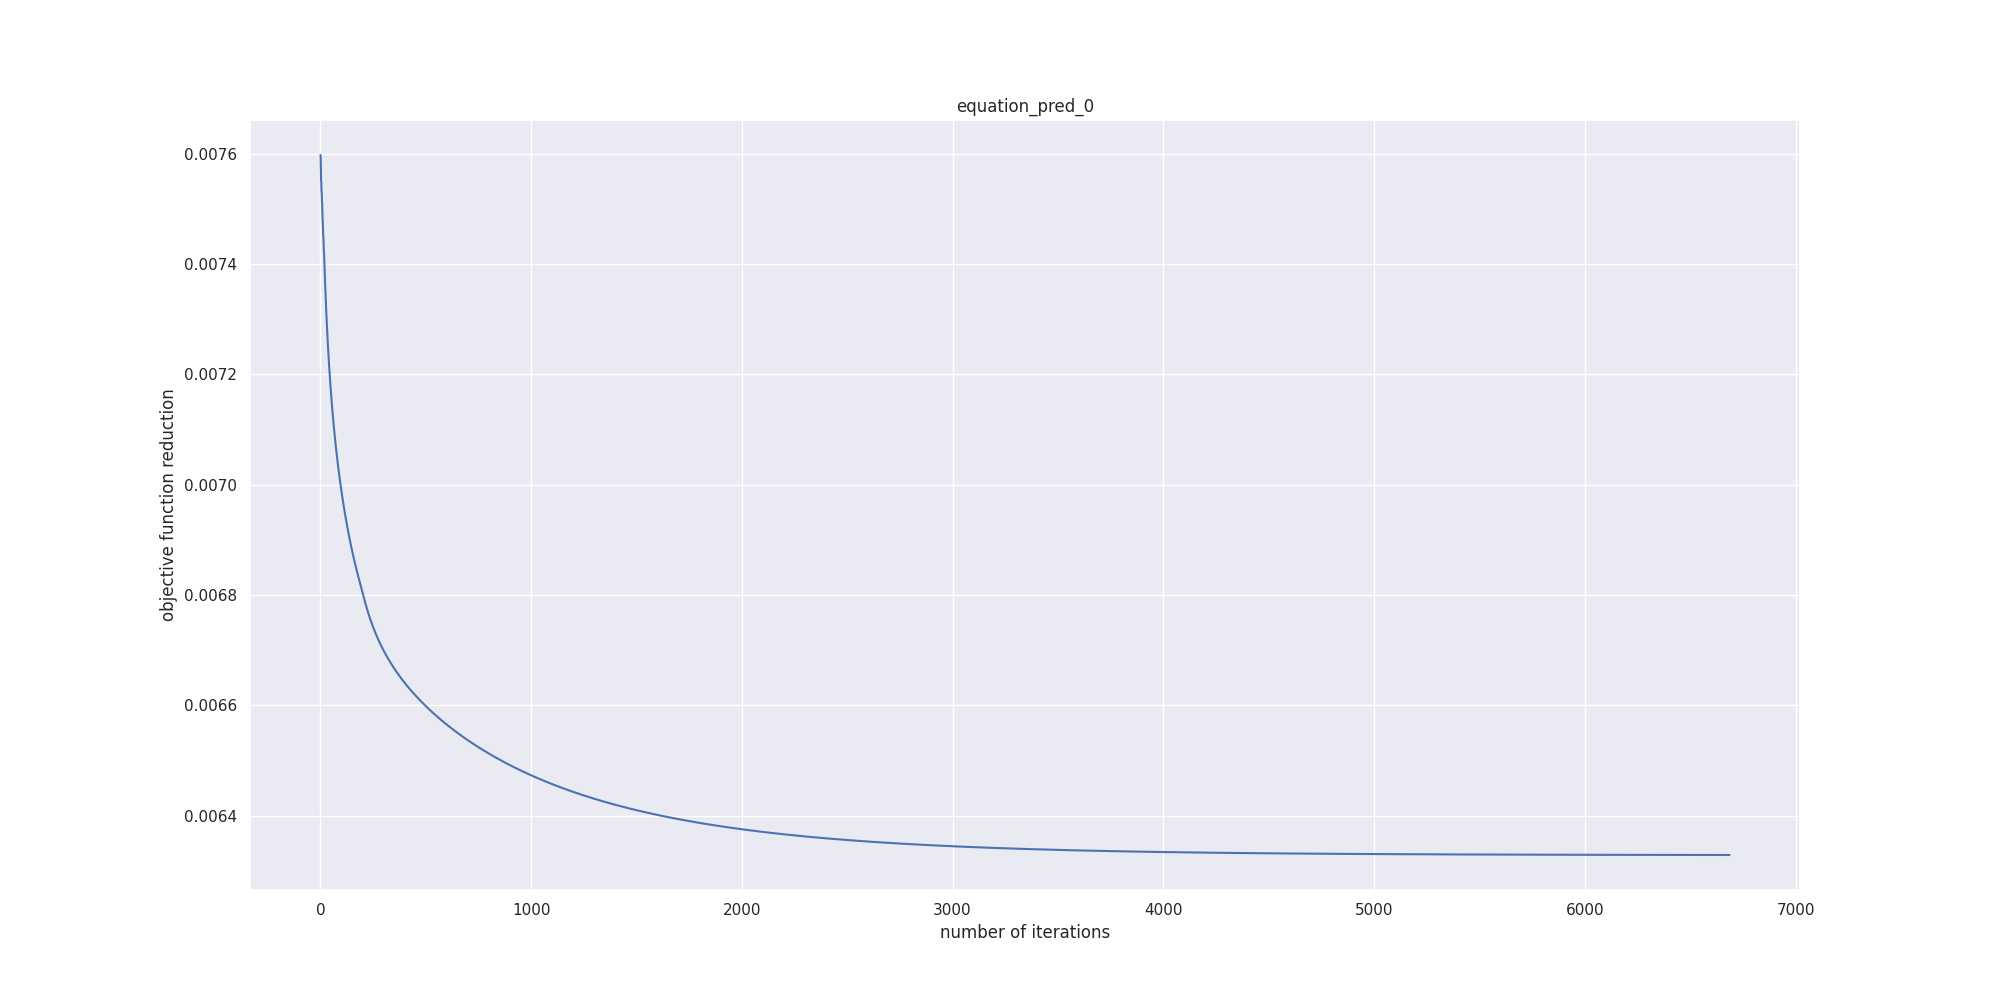
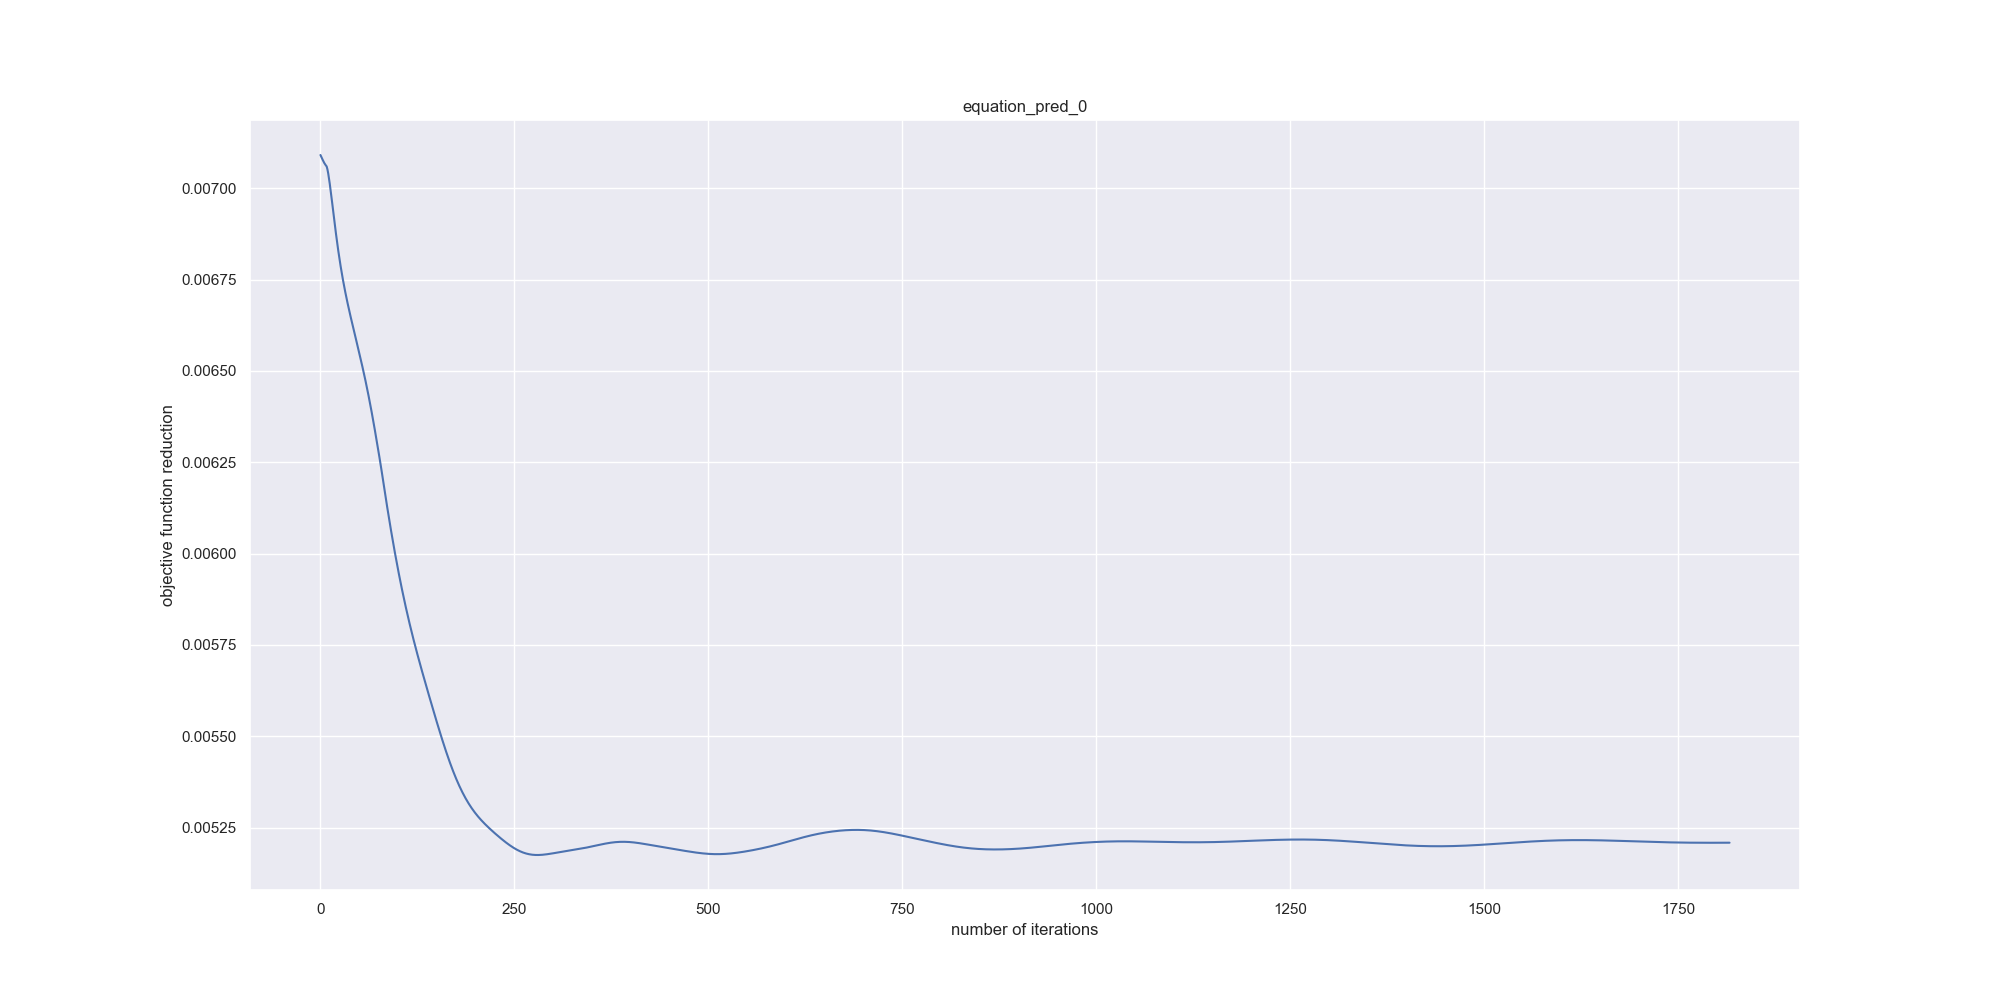
added FISTA algorithm

diff --git a/PGM.py b/PGM.py
@@ -1,5 +1,6 @@
 import numpy as np
 import pandas as pd
+import time
 
 class PGM_solver:
     
@@ -11,12 +12,13 @@ class PGM_solver:
       self.b = b
    
    def backtracking(self,x,grad_f,g_prox,lip,rho,lamb): 
-      gamma = 10/lip
+      gamma = 2/lip
       A=self.system.lib
       b=self.b
       while np.linalg.norm(grad_f(A,g_prox(x-gamma*grad_f(A,x,b),lamb,gamma),b)-grad_f(A,x,b))>1/(2*gamma)*np.linalg.norm(g_prox(x-gamma*grad_f(A,x,b),lamb,gamma)-x):
          gamma = gamma*rho
          x = g_prox(x-gamma*grad_f(A,x,b),lamb,gamma)
+         
       return gamma
          
    def PGMD(self,f,grad_f,g_prox,lamb,rho,maxiter,epsilon):
@@ -27,18 +29,55 @@ class PGM_solver:
       A2 = 2*np.matmul(A.T,A)/len(x)
       A2 = np.nan_to_num(A2,nan=0,posinf=0,neginf=0)
       lip=np.real((np.max(np.linalg.eig(A2)[0])))
-      gamma = 10/lip
-      num=0
+      gamma = 2/lip
       obj_function=[]
-      #for k in range(int(maxiter)):
-      while(1/gamma*np.linalg.norm(g_prox(x-gamma*grad_f(A,x,b),lamb,gamma)-x)) > epsilon:
+      time_per_step = []
+      active_columns = []
+      optimality_gap = []
+      for k in range(int(10)):
+         current= time.time()
          gamma = self.backtracking(x,grad_f,g_prox,lip,rho,lamb)
          x = g_prox(x-gamma*grad_f(A,x,b),lamb,gamma)
          obj_function.append(f(A,x,b))
-      print(x)
-      print("final_loss",f(A,x,b))
-      print("if x is 0 ",np.sum(np.power(b,2))/len(x))
-      print("least squares solution ",f(A,np.linalg.lstsq(A,b,rcond=None)[0],b)) 
-      print("pseudo inverse solution ",f(A,np.matmul(np.linalg.pinv(A),b),b)) 
+         final = time.time()
+         time_per_step.append(final-current)
+         active_columns.append(np.nonzero(x))
+         optimality_gap.append(1/gamma*np.linalg.norm(g_prox(x-gamma*grad_f(A,x,b),lamb,gamma)-x)-epsilon)
+      print(x)   
       print("finished")
-      return x,obj_function
+
+      return x,obj_function,time_per_step,active_columns,optimality_gap
+   
+
+   def PGMD_FISTA(self,f,grad_f,g_prox,lamb,rho,maxiter,epsilon):
+      y = self.initial_guess
+      A = self.system.lib
+      b = self.b
+      A2 = 2*np.matmul(A.T,A)/len(y)
+      A2 = np.nan_to_num(A2,nan=0,posinf=0,neginf=0)
+      lip=np.real((np.max(np.linalg.eig(A2)[0])))
+      gamma = 2/lip
+      obj_function=[]
+      xk_1 = y
+      tk_1 = 1
+      time_per_step = []
+      active_columns = []
+      optimality_gap = []
+      for k in range(int(maxiter)):
+      #while(1/gamma*np.linalg.norm(g_prox(y-gamma*grad_f(A,y,b),lamb,gamma)-y)) > epsilon:
+         current= time.time()
+         gamma = self.backtracking(xk_1,grad_f,g_prox,lip,rho,lamb) 
+         xk = g_prox(y-gamma*grad_f(A,y,b),lamb,gamma)
+         tk = (1 + np.sqrt(1+4*tk_1**2))/2
+         y = xk + ((tk_1-1)/tk)*(xk-xk_1) 
+         tk_1 = tk 
+         xk_1 = xk
+         final = time.time()
+         obj_function.append(f(A,xk,b))
+         time_per_step.append(final-current)
+         active_columns.append(np.nonzero(xk))
+         optimality_gap.append(1/gamma*np.linalg.norm(g_prox(xk-gamma*grad_f(A,xk,b),lamb,gamma)-xk)-epsilon)
+         
+      print(xk)
+      print("finished")
+      return xk,obj_function,time_per_step,active_columns,optimality_gap

diff --git a/main.py b/main.py
@@ -7,18 +7,18 @@ from mpl_toolkits import mplot3d
 import matplotlib.pyplot as plt
 from sklearn.preprocessing import normalize
 import seaborn as sns
+import time
 
 def f(A,x,b):
     return np.sum(np.power((A@x-b),2))/len(x)
 def grad_f(A,x,b):
-    vec= 2*(A@x-b)/len(x)
-    vec = vec.reshape((len(vec),1))
-    comp1 = np.sum(np.multiply(vec,A),axis=0) 
+    #vec = 2*(A@x-b)/len(x)
+    #vec = vec.reshape((len(vec),1))
+    #comp1 = np.sum(np.multiply(vec,A),axis=0) 
     comp = (np.matmul(A.T,np.matmul(A,x))+np.matmul(np.matmul(x.T,A.T),A)-np.matmul(A.T,b)-np.matmul(b.T,A))/len(x)
-    return comp1
+    return comp
 def g_prox(x,lamb,gamma):
-    prev = np.abs(x)-gamma*lamb*np.ones(x.shape)
-    return  np.maximum(prev,np.zeros(x.shape))*np.sign(x)
+    return  np.maximum(np.abs(x)-gamma*lamb*np.ones(x.shape),np.zeros(x.shape))*np.sign(x)
 
 def lorentz_system(sigma,rho,beta,n_points):
     
@@ -62,17 +62,19 @@ def main():
         sys = system_creator(states,True)
         sys.lib = np.nan_to_num(sys.lib,nan=0,posinf=0,neginf=0)
         initial_guess = np.zeros((sys.lib.shape[1],states.shape[1]))
-        rho = 0.9
+        rho = 0.1
         lamb = 1e-1
         maxiter = 1e4
         epsilon = 1e-4
         solution ={}
         obj_func = {}
-
+        time_per_step = {}
+        active_columns = {}
+        opt_gap = {}
         for col in range(initial_guess.shape[1]):
 
             pgm = PGM_solver(sys,initial_guess[:,col],diff[:,col])
-            solution[col] ,obj_func[col]=pgm.PGMD(f,grad_f,g_prox,lamb,rho,maxiter,epsilon)
+            solution[col] ,obj_func[col],time_per_step[col],active_columns[col],opt_gap[col]=pgm.PGMD(f,grad_f,g_prox,lamb,rho,maxiter,epsilon)
             plt.figure(figsize=(20,10))
             sns.set()
             plt.plot(obj_func[col])
